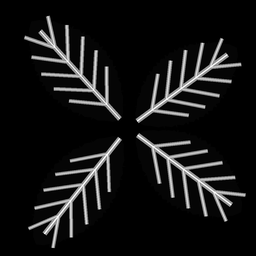
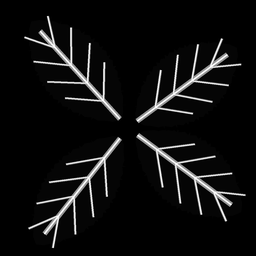
Witness tree pass 5 by numbers: hue back toward 269, near-white line centres that reach the screen, four thin side vein pairs
Pass 4 on Lane A (937eb1e0) against Dave's picture: lit 21.0% vs 15.6%, hue 276
vs 269, line centres 0.67 vs 0.93. The mask's 255 core was under a texel wide
after the shrink to 256 (185 texels at 250+), so core_boost never showed: now
at least a texel (1205 texels at 230+) and the shader turns to the core from
0.75. Side veins 0.022 of the leaf width (thinner than the 0.05 midrib), four
pairs; card lit share 0.083 to 0.063 (aim 0.062). Glow 0.6, 0.04, 1.0.

Claude-Session: https://claude.ai/code/session_01KmdmcH7f5iEaBnTdbqvjht

diff --git a/assets/trees/make_tree_textures.py b/assets/trees/make_tree_textures.py
@@ -410,10 +410,10 @@ def witness_leaf(rd, ad, md, cx, cy, length, width, angle, shade, rng, mid=0.06,
     for a, b, frac in lines:   # the glow: the violet line, then a thin bright core
         md.line([a, b], fill=150, width=max(1, int(width * frac * 1.4)))
     for a, b, frac in lines:
-        md.line([a, b], fill=255, width=max(1, int(width * frac * 0.35)))
+        md.line([a, b], fill=255, width=max(SS, int(width * frac * 0.5)))   # wide enough to stay near white after the shrink to 256
 
 
-def witness(name, size, seed, leaves=4, span=(0.52, 0.58), mid=0.05, side_w=0.036, pairs=5):
+def witness(name, size, seed, leaves=4, span=(0.52, 0.58), mid=0.05, side_w=0.022, pairs=4):
     # A spray of a few big leaves fanning out from the card's centre, with dark gaps between them (scored against
     # Dave's picture by tools/score_witness_night.py, 26 Nov 2026: 48 small leaves per card made the crown one
     # lit mesh, about twice as many leaves across the crown and twice the lit share of the picture).

diff --git a/tools/score_witness_night.py b/tools/score_witness_night.py
@@ -25,7 +25,9 @@ Method (same for every picture, so the numbers compare):
     midrib). Groups under 12 px are noise. Leaf length = median longer side of a
     group's box; leaves across = crown width / median group box width. When leaves
     overlap, groups merge and the count of groups per crown width drops: that is
-    reported too (groups).
+    reported too (groups). Where leaf cards overlap in layers the groups break into
+    vein stubs, so leaf length and leaves across read low: trust them only when
+    separate leaves is high; count leaves by eye otherwise.
 
 Usage:
   python3 tools/score_witness_night.py                      # Dave's target only
